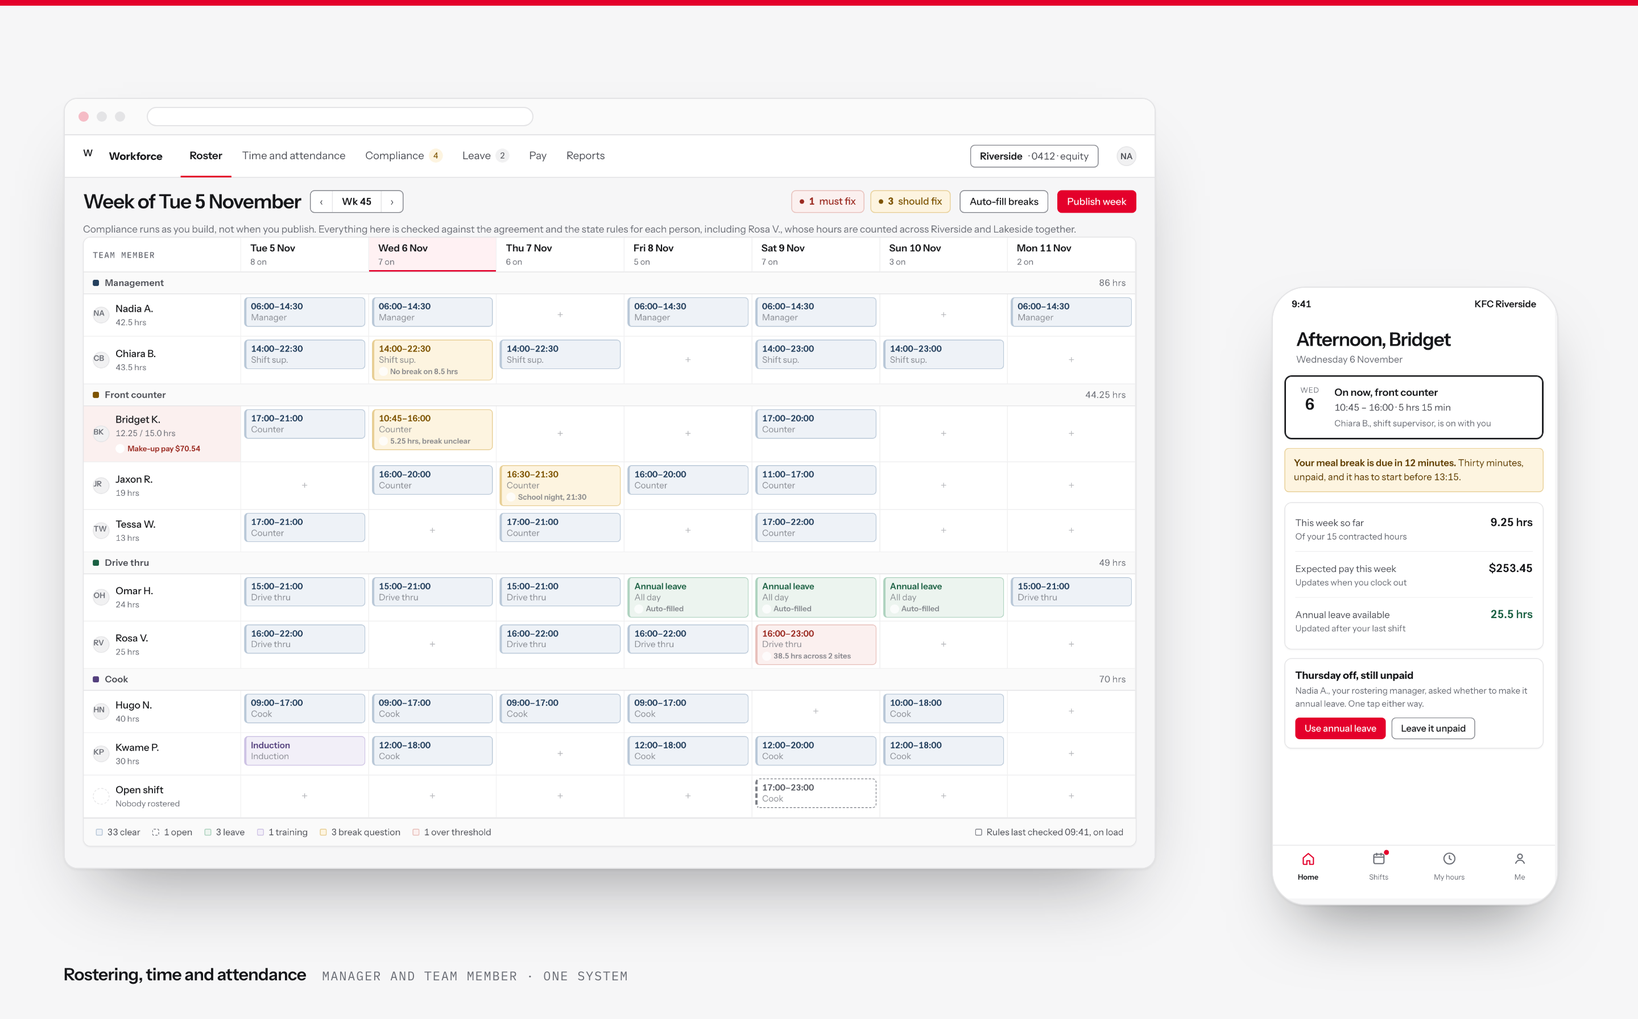
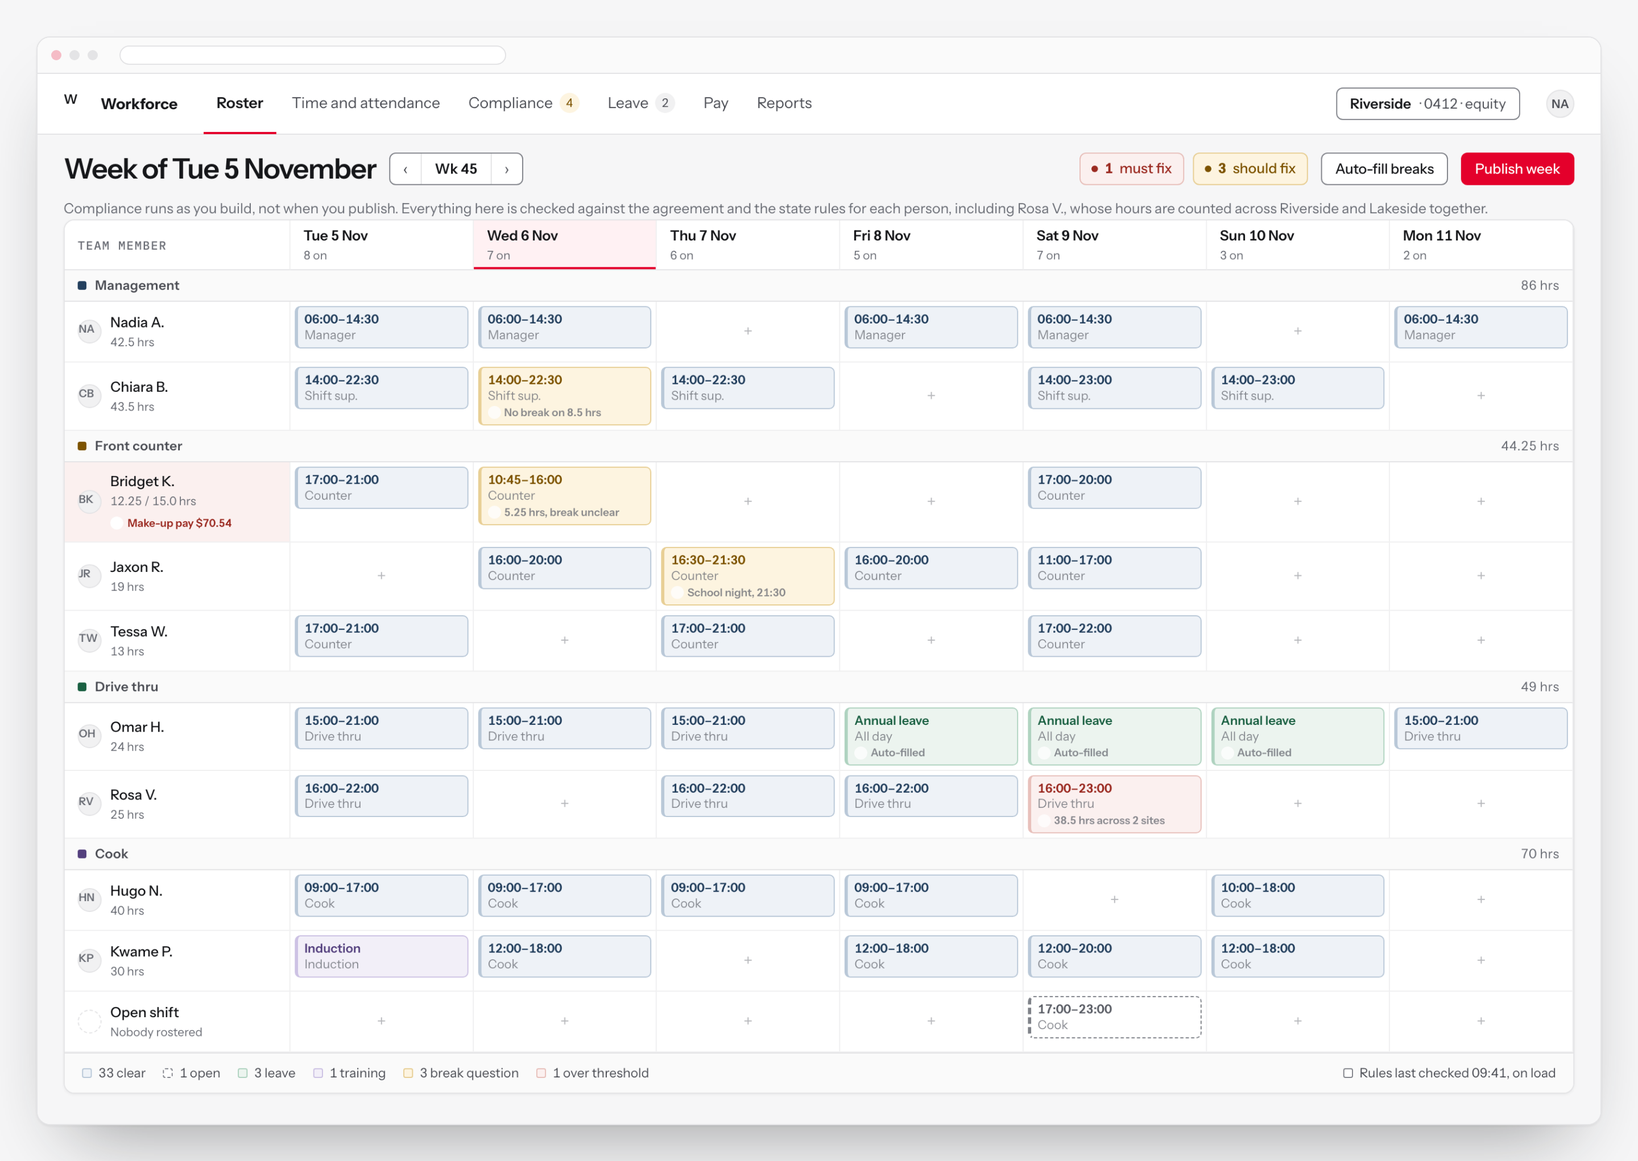
Bigger web screens in the panels, no phone, no red line
The hero compositions gave about a third of their width to a phone, and every
pixel it took came off the web screen, which is the thing a reader is meant to
be able to read. The phone is gone and the browser window now fills the frame,
so the interface renders roughly two thirds larger in the panel. The image
column is a little wider for the same reason.

Also gone: the five pixel brand band across the top of each composition, which
read as a stray red line on the homepage, and the caption baked into each
image, which sat at 15px and was displayed at about half size, so it rendered
around 8px and could not be read. The panel already carries that caption
underneath in live text.

That caption is now 15px in the body ink rather than 13.5px in the muted grey.

Each frame is sized from the screen it holds rather than by eye, so nothing is
cropped and nothing floats in dead space, and the figure in the hiring case had
its dimensions corrected to match the resized image.

diff --git a/articles/55/index.html b/articles/55/index.html
@@ -181,7 +181,7 @@ kpis: [application_to_interview_days, funnel_dropoff, time_to_offer, first_shift
 <figure class="fig fig-wide reveal"><a href="images/chart-followup.svg"><img src="images/chart-followup.svg" alt="Bar chart of the reminder cadence in days: one, two, three, then dispositioned at ten" loading="lazy"></a><figcaption><span class="fignum">Figure 4</span>The cadence written into the specification, so that a candidate always gets an answer and the rule is testable.</figcaption></figure>
 <p>Also delivered: the seven-moments verdict board, the persona set, the current-state blueprint below as a living document, the manager competency framework (three areas, three proficiency levels), conversation guides for the moments that stay human, and a manager one-pager for day one.</p>
 <div class="fig-html"><table class="blueprint tbl-bleed"><caption>Nine journey stages across the network: click any cell to expand the detail; fail points F-01…F-09 are marked and owned.</caption><tr><th>Stage / lane</th><th>Identify</th><th>Search</th><th>Consider</th><th>Apply</th><th>Interview</th><th>Offer</th><th>Accept</th><th>Onboard</th><th>Start</th></tr><tr class="lane"><td data-label="Stage / lane">Candidate (frontstage)</td><td data-label="Identify"><details class="cell"><summary>Where do I even find jobs?</summary><div class="cell-detail">Careers site, word of mouth, walk-ins: with no clear path from customer to crew.</div></details></td><td data-label="Search"><details class="cell"><summary>Browses roles; hours unclear</summary><div class="cell-detail">Role pages and store listings, but job posts stay live and duplicates confuse.</div></details></td><td data-label="Consider"><details class="cell"><summary>Asks family; weighs a first job</summary><div class="cell-detail">Nothing answers &quot;what is it really like?&quot;: no employer brand separate from the consumer brand.</div></details></td><td data-label="Apply"><details class="cell"><summary>Long form; repeats info per store</summary><div class="cell-detail">The form asks more than it decides: many visitors never complete it.</div></details></td><td data-label="Interview"><details class="cell"><summary>Dining-room table; rushed</summary><div class="cell-detail">No quiet space, no rapport: &quot;we walked upstairs to the dining room, I gave my availability and that was it.&quot;</div></details></td><td data-label="Offer"><details class="cell"><summary>Offer lands in spam</summary><div class="cell-detail">Slow confirmation; offers lost to spam filters; candidates vanish.</div></details></td><td data-label="Accept"><details class="cell"><summary>Documents repeated; consent expiry</summary><div class="cell-detail">The hardest part of the experience: same documents asked repeatedly; consent forms expire after seven days.</div></details></td><td data-label="Onboard"><details class="cell"><summary>Online training; no device</summary><div class="cell-detail">Training quality varies with trainer availability: incomplete training spills into shifts.</div></details></td><td data-label="Start"><details class="cell"><summary>Uniforms missing; hallway training</summary><div class="cell-detail">First shift begins not ready; no data on first-shift attendance at all.</div></details></td></tr><tr class="lane"><td data-label="Stage / lane">Backstage & people</td><td data-label="Identify"><details class="cell"><summary>Managers hire constantly; no campaigns</summary><div class="cell-detail">Hiring is constant and uncoordinated: &quot;too hard to coordinate&quot; campaigns.</div></details></td><td data-label="Search"><details class="cell"><summary>Job posts left live; duplicates</summary><div class="cell-detail">Stale listings and duplicate roles across stores and franchisee groups.</div></details></td><td data-label="Consider"><details class="cell"><summary>No employer brand</summary><div class="cell-detail">No dedicated employer content; the consumer brand stands in for it.</div></details></td><td data-label="Apply"><details class="cell"><summary>Managers re-key into systems</summary><div class="cell-detail">Candidate data re-entered across systems: error-prone and slow.</div></details></td><td data-label="Interview"><details class="cell"><summary>Manager capability varies</summary><div class="cell-detail">Interviews are rushed; the dining room is not a quiet space.</div></details></td><td data-label="Offer"><details class="cell"><summary>Slow confirmation</summary><div class="cell-detail">Offers wait on manual paperwork and manager availability.</div></details></td><td data-label="Accept"><details class="cell"><summary>Payroll finds errors at pay time</summary><div class="cell-detail">Wrong documents surface only at pay time: the admin of starting is the friction.</div></details></td><td data-label="Onboard"><details class="cell"><summary>Trainer availability varies</summary><div class="cell-detail">&quot;It&#39;s hard to learn when my shifts are spread out.&quot;</div></details></td><td data-label="Start"><details class="cell"><summary>Manager absorbs admin</summary><div class="cell-detail">Recruitment sits inside an already full day-to-day role.</div></details></td></tr><tr class="lane"><td data-label="Stage / lane">Systems & automation</td><td data-label="Identify"><details class="cell"><summary>Careers site; no employee channel</summary><div class="cell-detail">No employee-dedicated channel from customer to crew.</div></details></td><td data-label="Search"><details class="cell"><summary>Careers site + recruiting platform</summary><div class="cell-detail">Two surfaces, duplicate listings, no single source of truth.</div></details></td><td data-label="Consider"><details class="cell"><summary>No content layer</summary><div class="cell-detail">Nothing answers &quot;what is it really like?&quot;</div></details></td><td data-label="Apply"><details class="cell"><summary>Recruiting platform; AI assistant</summary><div class="cell-detail">Multi-system form today; conversational AI assistant in the future state.</div></details></td><td data-label="Interview"><details class="cell"><summary>Auto-scheduling, calendar</summary><div class="cell-detail">Future state: auto-scheduled interviews with instant confirmation.</div></details></td><td data-label="Offer"><details class="cell"><summary>Automated offer</summary><div class="cell-detail">Future state: offers generated and tracked automatically.</div></details></td><td data-label="Accept"><details class="cell"><summary>Work-rights check; payroll</summary><div class="cell-detail">Automated checks with a human review lane; guided capture for first-job candidates.</div></details></td><td data-label="Onboard"><details class="cell"><summary>Learning platform; employee records</summary><div class="cell-detail">Employee record auto-created with two daily pushes to scheduling and payroll.</div></details></td><td data-label="Start"><details class="cell"><summary>Time & attendance; scheduling</summary><div class="cell-detail">First-shift and 90-day retention have no data: documented findings.</div></details></td></tr><tr class="lane"><td data-label="Stage / lane">Failure points</td><td data-label="Identify"><details class="cell"><summary><span class="fp">F-01</span> No path from customer to crew</summary><div class="cell-detail">No clear route into the funnel; hiring is invisible to the customer base.</div></details></td><td data-label="Search"><details class="cell"><summary><span class="fp">F-02</span> Stale roles; duplicates</summary><div class="cell-detail">Stale listings and duplicate roles confuse candidates.</div></details></td><td data-label="Consider"><details class="cell"><summary><span class="fp">F-03</span> Nothing answers &quot;what is it really like?&quot;</summary><div class="cell-detail">No employer brand separate from the consumer brand.</div></details></td><td data-label="Apply"><details class="cell"><summary><span class="fp">F-04</span> Asks more than it decides</summary><div class="cell-detail">nearly half drop-off: the form&#39;s middle loses the most visitors.</div></details></td><td data-label="Interview"><details class="cell"><summary><span class="fp">F-05</span> No quiet space; no rapport</summary><div class="cell-detail">Dining-room interviews; rushed and inconsistent.</div></details></td><td data-label="Offer"><details class="cell"><summary><span class="fp">F-06</span> Offers lost</summary><div class="cell-detail">Offers land in spam; candidates vanish without response.</div></details></td><td data-label="Accept"><details class="cell"><summary><span class="fp">F-07</span> Hardest part of the experience</summary><div class="cell-detail">Documents repeated; consent expiry; first-time bank and tax setup.</div></details></td><td data-label="Onboard"><details class="cell"><summary><span class="fp">F-08</span> Incomplete training</summary><div class="cell-detail">Training spills into shifts; quality varies with trainer availability.</div></details></td><td data-label="Start"><details class="cell"><summary><span class="fp">F-09</span> + W No data on first shift</summary><div class="cell-detail">First-shift attendance and 90-day retention: no data: documented findings.</div></details></td></tr></table>
-<figure class="fig fig-wide reveal"><a href="./showcase/index.html#questions"><img src="./showcase/img/hero.png" width="1440" height="820" alt="The hiring product: the screening conversation on a phone beside the manager pipeline, with black assistant bubbles answered in red and the waiting time on every candidate card" loading="lazy"></a><figcaption><span class="fignum">Figure 5</span>Screening as five questions rather than a form across two systems, and the pipeline that shows the manager how long somebody has been waiting. <a href="./showcase/index.html">Open the product, module by module</a>.</figcaption></figure>
+<figure class="fig fig-wide reveal"><a href="./showcase/index.html#questions"><img src="./showcase/img/hero.png" width="1440" height="792" alt="The hiring product: the screening conversation on a phone beside the manager pipeline, with black assistant bubbles answered in red and the waiting time on every candidate card" loading="lazy"></a><figcaption><span class="fignum">Figure 5</span>Screening as five questions rather than a form across two systems, and the pipeline that shows the manager how long somebody has been waiting. <a href="./showcase/index.html">Open the product, module by module</a>.</figcaption></figure>
 <h3>The product the research argued for</h3>
 <p>Ten modules drawn from the nine-stage blueprint. Seven belong to the candidate, because the research found the admin burden was the experience, and three belong to the manager, because the wait that made it worse was invisible while it was happening. They are built on the same design system as the safety reporting and workforce products.</p>
 <div class="mods">

diff --git a/articles/57/showcase/screens/hero.html b/articles/57/showcase/screens/hero.html
@@ -1,32 +1,22 @@
 <!doctype html>
 <html lang="en-AU"><head><meta charset="utf-8"><title>Safety reporting, composition</title>
 <link rel="preconnect" href="https://fonts.googleapis.com"><link rel="preconnect" href="https://fonts.gstatic.com" crossorigin><link href="https://fonts.googleapis.com/css2?family=Instrument+Sans:wght@400;500;600;700&family=IBM+Plex+Mono:wght@400;500&display=swap" rel="stylesheet">
-<link rel="stylesheet" href="../../../../assets/product/tokens.css">
+<link rel="stylesheet" href="../../../../assets/product/tokens.css"><link rel="stylesheet" href="../../../../assets/product/components.css">
 <style>
   *{box-sizing:border-box;margin:0}
-  html,body{width:1440px;height:900px;overflow:hidden}
+  html,body{width:1440px;height:1224px;overflow:hidden}
   body{background:var(--p-canvas);font:400 14px var(--p-font);position:relative;-webkit-font-smoothing:antialiased}
-  /* a thin band of the brand, so the composition is anchored without a slab of red */
-  body::before{content:"";position:absolute;left:0;right:0;top:0;height:5px;background:var(--p-brand)}
-  /* The window holds a 1440x1180 screen, so at 900px wide it is 737px tall plus
-     the 32px chrome. Top and caption are set from that, not by eye, because the
-     last time the screen inside changed shape the window grew down onto the caption. */
-  .win{position:absolute;left:56px;top:58px;width:900px;border-radius:12px;overflow:hidden;background:var(--p-panel);
-       border:1px solid var(--p-line);box-shadow:0 1px 2px rgba(22,23,26,.05),0 34px 64px -30px rgba(22,23,26,.45)}
+  /* The window fills the frame. The screen inside is 1440x1180, so at 1376px wide
+     it stands 1128px tall plus the 32px of chrome, and the frame is sized from
+     that rather than by eye. Nothing is cropped and nothing floats in dead space. */
+  .win{position:absolute;left:32px;top:32px;width:1376px;border-radius:12px;overflow:hidden;background:var(--p-panel);
+       border:1px solid var(--p-line);box-shadow:0 1px 2px rgba(22,23,26,.05),0 34px 64px -30px rgba(22,23,26,.42)}
   .bar{height:32px;background:var(--p-panel-2);border-bottom:1px solid var(--p-line);display:flex;align-items:center;gap:7px;padding:0 12px}
   .bar i{width:9px;height:9px;border-radius:50%;background:var(--p-line);display:block}
   .bar i:first-child{background:var(--p-brand-line)}
   .bar span{margin-left:12px;height:17px;flex:1;max-width:340px;border-radius:9px;background:var(--p-panel);border:1px solid var(--p-line)}
   .win img{display:block;width:100%;height:auto}
-  .phone{position:absolute;right:74px;bottom:92px;width:268px;border-radius:28px;overflow:hidden;background:var(--p-panel);
-         border:1px solid var(--p-line);box-shadow:0 1px 2px rgba(22,23,26,.05),0 30px 58px -24px rgba(22,23,26,.5)}
-  .phone img{display:block;width:100%;height:auto}
-  .cap{position:absolute;left:56px;bottom:26px;display:flex;align-items:baseline;gap:14px}
-  .cap b{font-size:15px;font-weight:600;letter-spacing:var(--p-tracking-tight);color:var(--p-ink)}
-  .cap span{font-family:var(--p-font-mono);font-size:11px;letter-spacing:.08em;text-transform:uppercase;color:var(--p-ink-3)}
 </style></head><body>
   <div class="win"><div class="bar"><i></i><i></i><i></i><span></span></div>
     <img src="../img/dashboard-manager.png" alt=""></div>
-  <div class="phone"><img src="../img/quick-add-entry.png" alt=""></div>
-  <div class="cap"><b>Safety reporting</b><span>Manager and team member · one system</span></div>
 </body></html>

diff --git a/articles/55/showcase/screens/hero.html b/articles/55/showcase/screens/hero.html
@@ -4,34 +4,19 @@
 <link rel="stylesheet" href="../../../../assets/product/tokens.css"><link rel="stylesheet" href="../../../../assets/product/components.css">
 <style>
   *{box-sizing:border-box;margin:0}
-  html,body{width:1440px;height:820px;overflow:hidden}
+  html,body{width:1440px;height:792px;overflow:hidden}
   body{background:var(--p-canvas);font:400 14px var(--p-font);position:relative;-webkit-font-smoothing:antialiased}
-  /* a thin band of the brand, so the composition is anchored without a slab of red */
-  body::before{content:"";position:absolute;left:0;right:0;top:0;height:5px;background:var(--p-brand)}
-  /* The window holds a 1440x728 screen, so at 960px wide it stands 485px tall
-     plus 32px of chrome, which is 517. Top is set from that arithmetic rather
-     than by eye, because the safety hero grew down onto its own caption when
-     the screen inside it changed shape. 84 + 517 = 601, and the caption starts
-     at 820 - 34 - 18 = 768. */
-  .win{position:absolute;left:56px;top:84px;width:960px;border-radius:12px;overflow:hidden;background:var(--p-panel);
-       border:1px solid var(--p-line);box-shadow:0 1px 2px rgba(22,23,26,.05),0 34px 64px -30px rgba(22,23,26,.45)}
+  /* The window fills the frame. The screen inside is 1440x728, so at 1376px wide
+     it stands 696px tall plus the 32px of chrome, and the frame is sized from
+     that rather than by eye. Nothing is cropped and nothing floats in dead space. */
+  .win{position:absolute;left:32px;top:32px;width:1376px;border-radius:12px;overflow:hidden;background:var(--p-panel);
+       border:1px solid var(--p-line);box-shadow:0 1px 2px rgba(22,23,26,.05),0 34px 64px -30px rgba(22,23,26,.42)}
   .bar{height:32px;background:var(--p-panel-2);border-bottom:1px solid var(--p-line);display:flex;align-items:center;gap:7px;padding:0 12px}
   .bar i{width:9px;height:9px;border-radius:50%;background:var(--p-line);display:block}
   .bar i:first-child{background:var(--p-brand-line)}
   .bar span{margin-left:12px;height:17px;flex:1;max-width:340px;border-radius:9px;background:var(--p-panel);border:1px solid var(--p-line)}
   .win img{display:block;width:100%;height:auto}
-  /* 252 wide gives 546 tall. Bottom 118 puts its top at 820 - 118 - 546 = 156,
-     clear of the brand band, and its left edge at 1440 - 70 - 252 = 1118, clear
-     of the window's right edge at 1016. */
-  .phone{position:absolute;right:70px;bottom:118px;width:252px;border-radius:30px;overflow:hidden;background:var(--p-panel);
-         border:1px solid var(--p-line);box-shadow:0 1px 2px rgba(22,23,26,.05),0 30px 58px -24px rgba(22,23,26,.5)}
-  .phone img{display:block;width:100%;height:auto}
-  .cap{position:absolute;left:56px;bottom:34px;display:flex;align-items:baseline;gap:14px}
-  .cap b{font-size:15px;font-weight:600;letter-spacing:var(--p-tracking-tight);color:var(--p-ink)}
-  .cap span{font-family:var(--p-font-mono);font-size:11px;letter-spacing:.08em;text-transform:uppercase;color:var(--p-ink-3)}
 </style></head><body>
   <div class="win"><div class="bar"><i></i><i></i><i></i><span></span></div>
     <img src="../img/queue.png" alt=""></div>
-  <div class="phone"><img src="../img/questions.png" alt=""></div>
-  <div class="cap"><b>Hiring and onboarding</b><span>Candidate and manager &middot; one system</span></div>
 </body></html>

diff --git a/articles/52/showcase/screens/hero.html b/articles/52/showcase/screens/hero.html
@@ -4,30 +4,19 @@
 <link rel="stylesheet" href="../../../../assets/product/tokens.css"><link rel="stylesheet" href="../../../../assets/product/components.css">
 <style>
   *{box-sizing:border-box;margin:0}
-  html,body{width:1440px;height:900px;overflow:hidden}
+  html,body{width:1440px;height:1021px;overflow:hidden}
   body{background:var(--p-canvas);font:400 14px var(--p-font);position:relative;-webkit-font-smoothing:antialiased}
-  /* a thin band of the brand, so the composition is anchored without a slab of red */
-  body::before{content:"";position:absolute;left:0;right:0;top:0;height:5px;background:var(--p-brand)}
-  /* The window holds a 1440x1000 screen, so at 960px wide it stands 667px tall
-     plus the 32px chrome. Top and caption clear each other by that arithmetic,
-     not by eye, because the safety hero grew down onto its caption when the
-     screen inside it changed shape. */
-  .win{position:absolute;left:56px;top:86px;width:960px;border-radius:12px;overflow:hidden;background:var(--p-panel);
-       border:1px solid var(--p-line);box-shadow:0 1px 2px rgba(22,23,26,.05),0 34px 64px -30px rgba(22,23,26,.45)}
+  /* The window fills the frame. The screen inside is 1440x968, so at 1376px wide
+     it stands 925px tall plus the 32px of chrome, and the frame is sized from
+     that rather than by eye. Nothing is cropped and nothing floats in dead space. */
+  .win{position:absolute;left:32px;top:32px;width:1376px;border-radius:12px;overflow:hidden;background:var(--p-panel);
+       border:1px solid var(--p-line);box-shadow:0 1px 2px rgba(22,23,26,.05),0 34px 64px -30px rgba(22,23,26,.42)}
   .bar{height:32px;background:var(--p-panel-2);border-bottom:1px solid var(--p-line);display:flex;align-items:center;gap:7px;padding:0 12px}
   .bar i{width:9px;height:9px;border-radius:50%;background:var(--p-line);display:block}
   .bar i:first-child{background:var(--p-brand-line)}
   .bar span{margin-left:12px;height:17px;flex:1;max-width:340px;border-radius:9px;background:var(--p-panel);border:1px solid var(--p-line)}
   .win img{display:block;width:100%;height:auto}
-  .phone{position:absolute;right:70px;bottom:104px;width:252px;border-radius:30px;overflow:hidden;background:var(--p-panel);
-         border:1px solid var(--p-line);box-shadow:0 1px 2px rgba(22,23,26,.05),0 30px 58px -24px rgba(22,23,26,.5)}
-  .phone img{display:block;width:100%;height:auto}
-  .cap{position:absolute;left:56px;bottom:34px;display:flex;align-items:baseline;gap:14px}
-  .cap b{font-size:15px;font-weight:600;letter-spacing:var(--p-tracking-tight);color:var(--p-ink)}
-  .cap span{font-family:var(--p-font-mono);font-size:11px;letter-spacing:.08em;text-transform:uppercase;color:var(--p-ink-3)}
 </style></head><body>
   <div class="win"><div class="bar"><i></i><i></i><i></i><span></span></div>
     <img src="../img/roster-week.png" alt=""></div>
-  <div class="phone"><img src="../img/phone-home.png" alt=""></div>
-  <div class="cap"><b>Rostering, time and attendance</b><span>Manager and team member · one system</span></div>
 </body></html>

diff --git a/assets/portfolio.css b/assets/portfolio.css
@@ -111,7 +111,7 @@
 .pf-lead-case { padding: 0 0 var(--pf-section); }
 .pf-panel {
   background: var(--dark); color: var(--dark-ink); border-radius: var(--radius-card);
-  overflow: hidden; display: grid; grid-template-columns: minmax(0, 5fr) minmax(0, 7fr);
+  overflow: hidden; display: grid; grid-template-columns: minmax(0, 4.5fr) minmax(0, 7.5fr);
 }
 .pf-panel-text { padding: clamp(30px, 3.4vw, 52px); display: flex; flex-direction: column; }
 .pf-panel-text .pf-eyebrow { color: rgba(248, 248, 245, 0.6); }
@@ -135,7 +135,7 @@
    bottom, and the copy is written short enough that there is little to split. */
 .pf-panel-fig { display: grid; align-content: center; background: #f4f3ee; border-left: 1px solid rgba(255, 255, 255, 0.12); }
 .pf-panel-fig img { display: block; width: 100%; height: auto; }
-.pf-caption { font-size: var(--pf-small); color: var(--muted); line-height: 1.55; margin: 14px 0 0; max-width: 78ch; }
+.pf-caption { font-size: var(--pf-body); color: var(--ink-soft); line-height: 1.6; margin: 16px 0 0; max-width: 78ch; }
 .pf-caption a { border-bottom: 1px solid var(--line-strong); }
 .pf-caption a:hover { border-bottom-color: var(--ink); }
 
